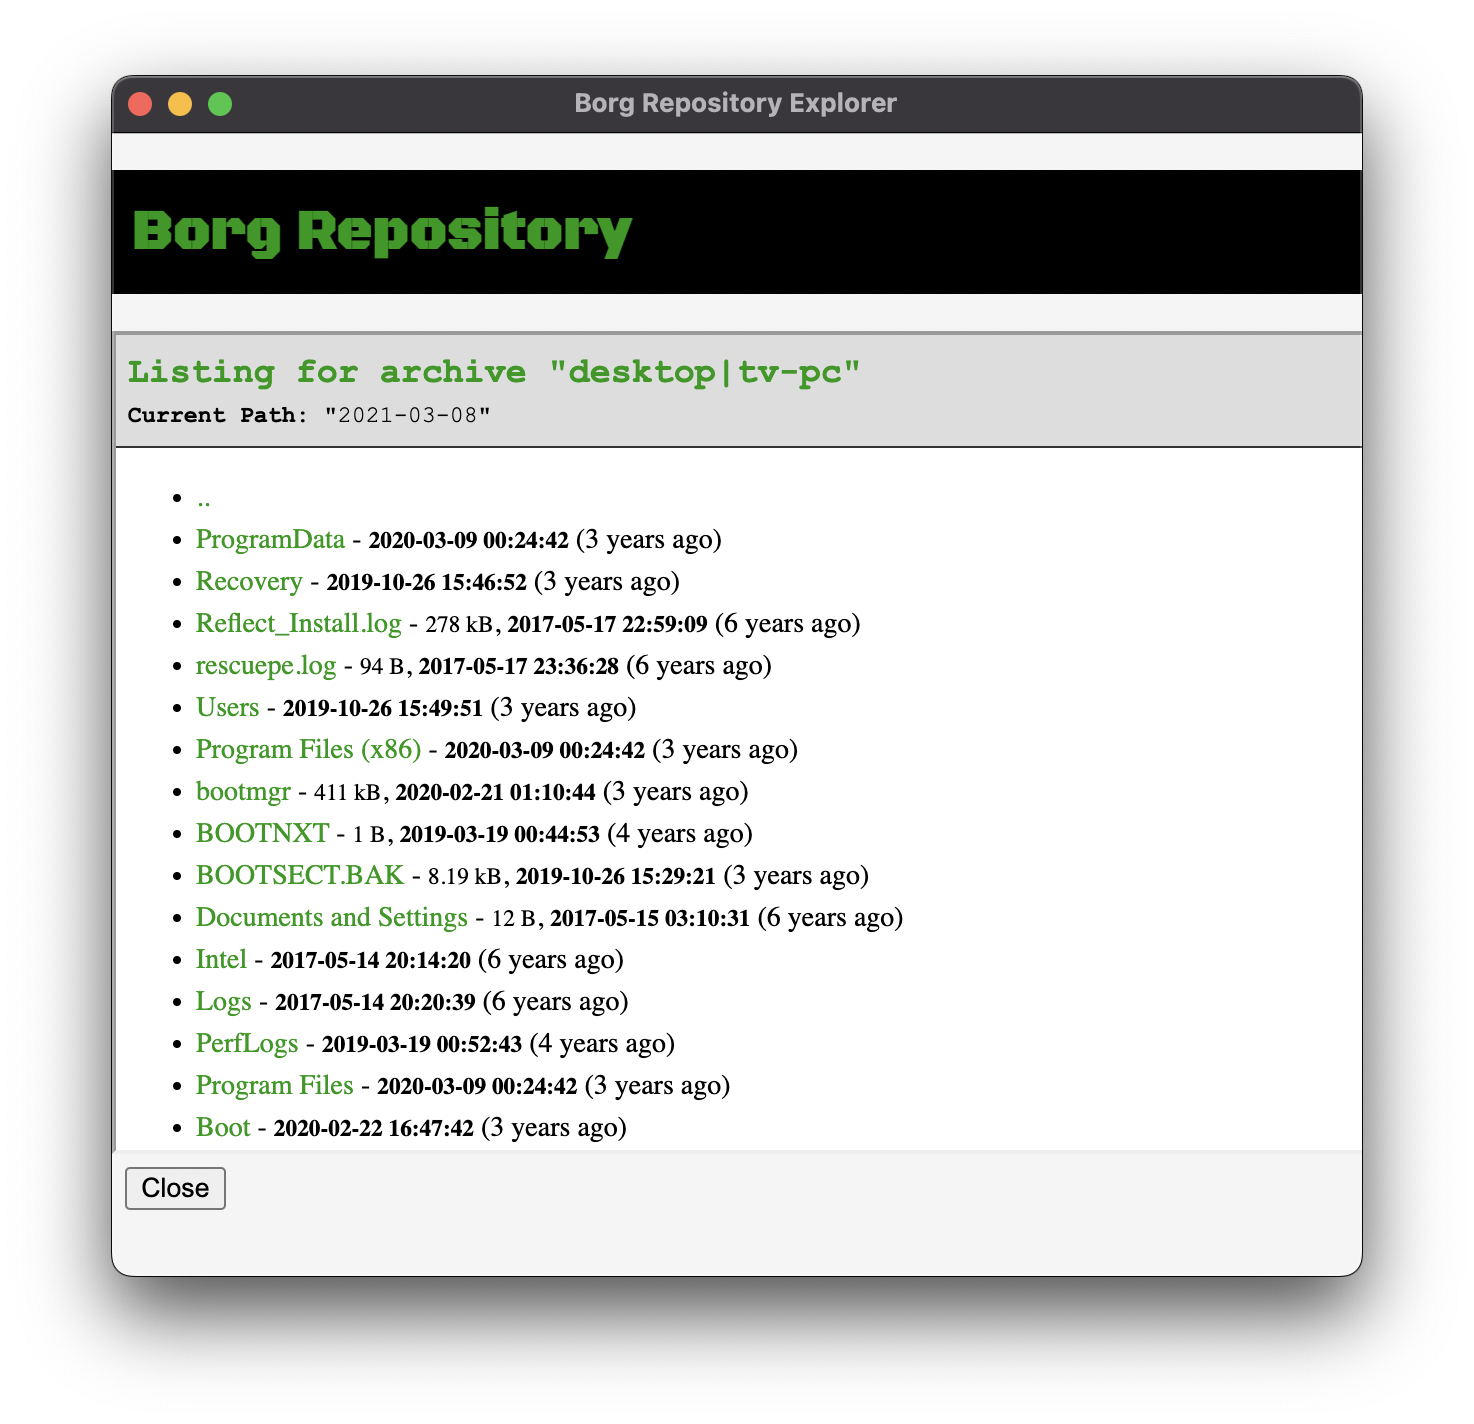
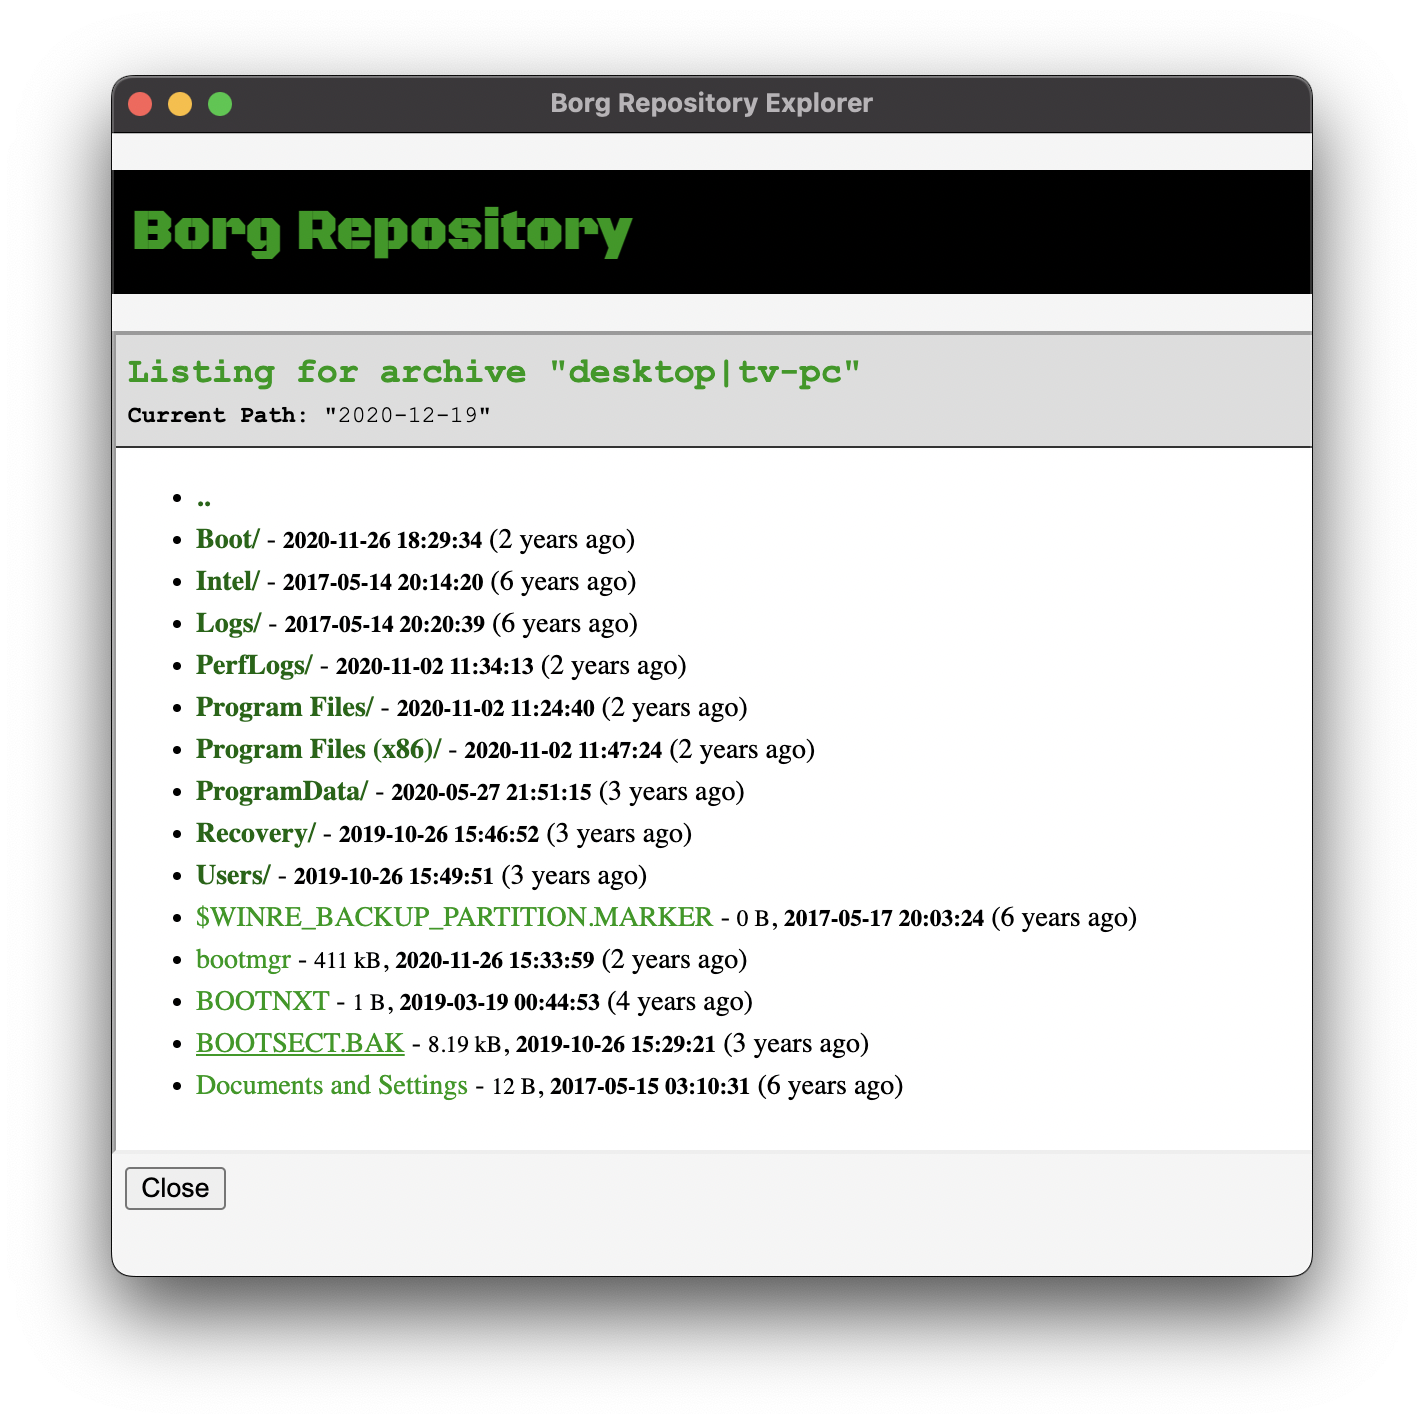
Make directories bold

diff --git a/borg-explorer/src/file-listing.html b/borg-explorer/src/file-listing.html
@@ -194,7 +194,8 @@
       if (currentNavigationPath != '') {
         var upItem = document.createElement('li');
         var upLink = document.createElement('a');
-        upLink.classList.add('file-link');
+        upLink.classList.add('archive-entry-link');
+        upLink.classList.add('archive-entry-directory');
         upLink.innerHTML = '..';
         upLink.href = `javascript:navigateArchiveUp()`;
         upItem.appendChild(upLink);
@@ -203,7 +204,8 @@
         // Add a link to go back to the archive list
         var backItem = document.createElement('li');
         var backLink = document.createElement('a');
-        backLink.classList.add('file-link');
+        backLink.classList.add('archive-entry-link');
+        backLink.classList.add('archive-entry-directory');
         backLink.innerHTML = '&lt;Archive List&gt;';
         backLink.href = `javascript:refreshRepository()`;
         backItem.appendChild(backLink);
@@ -215,16 +217,18 @@
         var fileLink = document.createElement('a');
 
         if (file.explicit) {
-          fileLink.classList.add('file-link');
+          fileLink.classList.add('archive-entry-link');
         } else {
-          fileLink.classList.add('file-link-implicit');
+          fileLink.classList.add('archive-entry-link-implicit');
         }
 
         if (file.type == 'd') {
+          fileLink.classList.add('archive-entry-directory');
           fileLink.innerHTML = file.name + '/';
           fileLink.href = `javascript:navigateArchive('${file.path}')`;
         }
         else {
+          fileLink.classList.add('archive-entry-file');
           fileLink.innerHTML = file.name;
           fileLink.href = `javascript:openFile('${file.path}')`;
         }
@@ -238,7 +242,7 @@
           // If the entry is a file, show size (using prettyBytes), modified time and age.
           var mtime_str = moment(file.mtime).format("YYYY-MM-DD HH:mm:ss");
           if (file.type == 'd') {
-            fileDescription.innerHTML = ` - <span class='file-date'>${mtime_str}</span> (${moment(file.mtime).fromNow()})`;
+            fileDescription.innerHTML = ` - <span class='directory-date'>${mtime_str}</span> (${moment(file.mtime).fromNow()})`;
           }
           else {
             //fileDescription.innerHTML = ` - ${file.size} bytes, ${moment(file.mtime)} (${moment(file.mtime).fromNow()})`;

diff --git a/borg-explorer/src/file-listing.css b/borg-explorer/src/file-listing.css
@@ -43,16 +43,16 @@ a:hover {
   font-weight: normal;
 }
 
-.file-date, .archive-date {
+.file-date, .directory-date, .archive-date {
   font-size: smaller;
   font-weight: bold;
 }
 
-.archive-date {
-  font-weight: bold;
+.archive-entry-link-implicit {
+  font-style: italic;
 }
 
-.file-link-implicit {
+.archive-entry-directory {
   color: #006600;
-  font-style: italic;
+  font-weight: bold;;
 }
